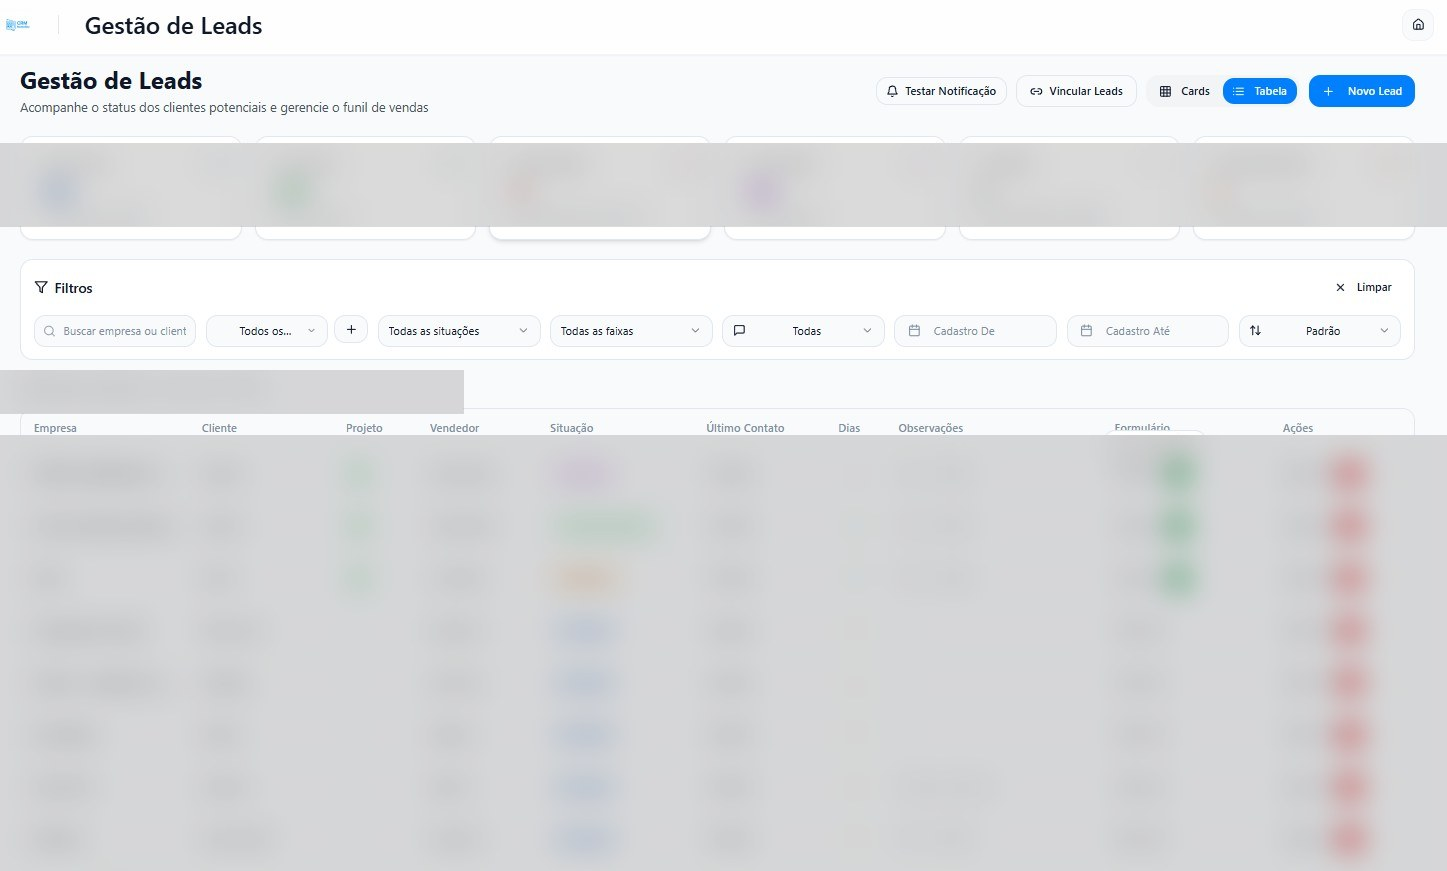
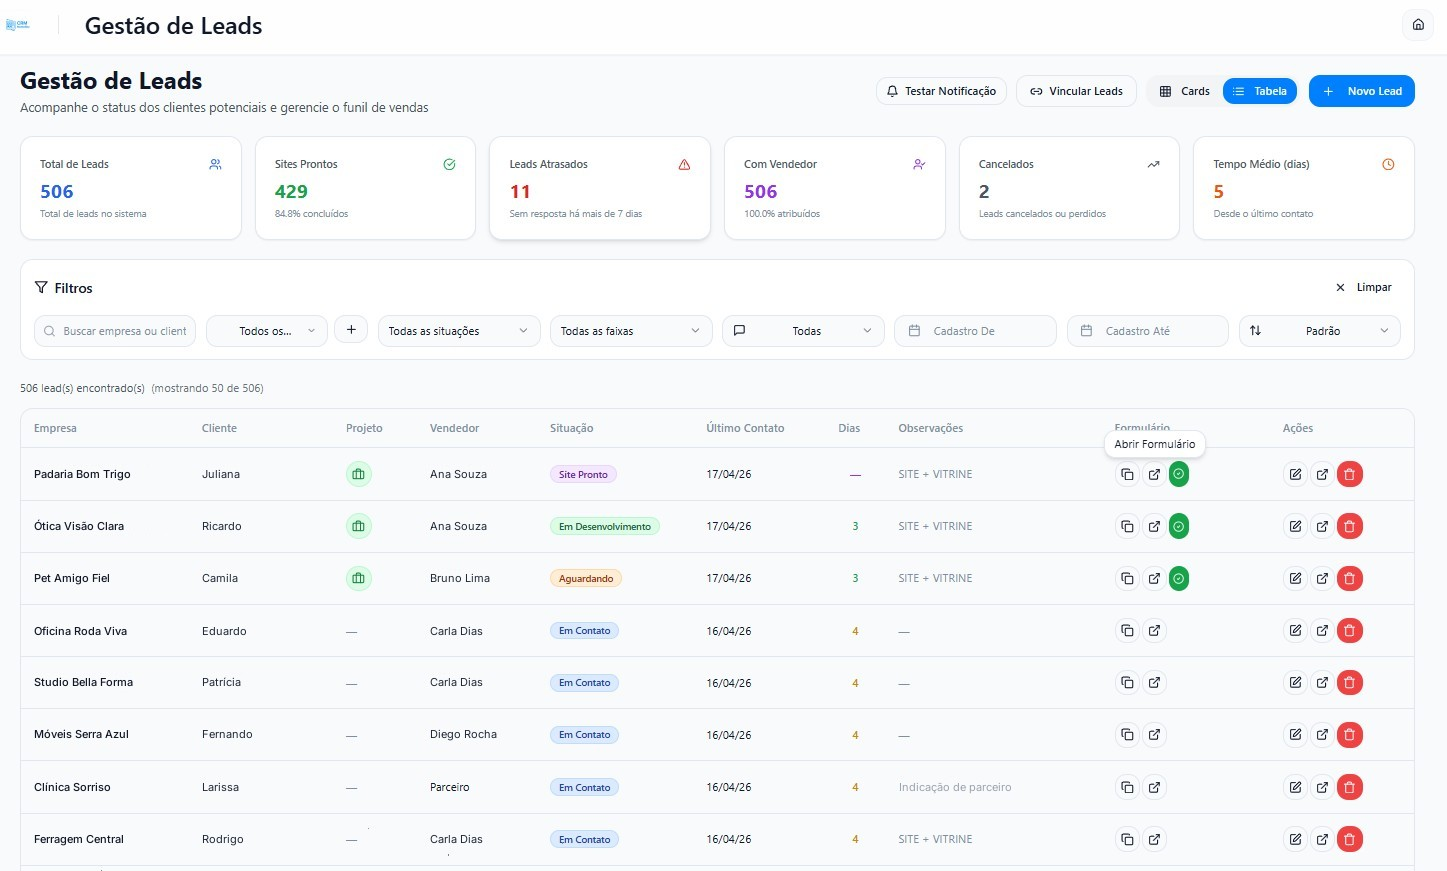
fix: prints do CRM e de layouts mais limpos, sem borrão
Tira a segunda imagem do CRM, devolve a primeira e as de layouts sem censura
e troca os nomes reais da tela de leads por nomes fictícios (scripts/nomes_ficticios.py).

diff --git a/scripts/nomes_ficticios.py b/scripts/nomes_ficticios.py
@@ -1,0 +1,72 @@
+"""
+Troca os nomes reais da tabela de leads do CRM (crm3.jpg) por nomes ficticios,
+escritos por cima com a mesma fonte do sistema (Inter). Os numeros do topo ficam.
+
+Uso:
+    python scripts/nomes_ficticios.py --origem PASTA_COM_OS_ORIGINAIS --fonte PASTA_COM_INTER
+
+--origem: pasta com o crm3.jpg original (fora do repositorio).
+--fonte: pasta com Inter-Regular.ttf e Inter-Medium.ttf (Google Fonts, licenca OFL).
+Le sempre o original, entao rodar de novo nao acumula edicoes.
+"""
+import argparse
+from pathlib import Path
+
+from PIL import Image, ImageDraw, ImageFont
+
+RAIZ = Path(__file__).resolve().parent.parent
+DESTINO = RAIZ / "public/projects/crmontesite/crm3.jpg"
+
+# Linha da tabela: topo das letras (px) e o texto ficticio de cada coluna.
+# Coluna: (x inicial, x final da area apagada, peso, cor)
+COLUNAS = {
+    "empresa": (34, 190, "medium", (17, 24, 39)),
+    "cliente": (202, 280, "regular", (31, 41, 55)),
+    "vendedor": (430, 505, "regular", (31, 41, 55)),
+    "obs": (899, 1010, "regular", (156, 163, 175)),
+}
+LINHAS = [
+    (470, {"empresa": "Padaria Bom Trigo", "cliente": "Juliana", "vendedor": "Ana Souza"}),
+    (522, {"empresa": "Ótica Visão Clara", "cliente": "Ricardo", "vendedor": "Ana Souza"}),
+    (574, {"empresa": "Pet Amigo Fiel", "cliente": "Camila", "vendedor": "Bruno Lima"}),
+    (627, {"empresa": "Oficina Roda Viva", "cliente": "Eduardo", "vendedor": "Carla Dias"}),
+    (678, {"empresa": "Studio Bella Forma", "cliente": "Patrícia", "vendedor": "Carla Dias"}),
+    (730, {"empresa": "Móveis Serra Azul", "cliente": "Fernando", "vendedor": "Diego Rocha"}),
+    (783, {"empresa": "Clínica Sorriso", "cliente": "Larissa", "obs": "Indicação de parceiro"}),
+    (835, {"empresa": "Ferragem Central", "cliente": "Rodrigo", "vendedor": "Carla Dias"}),
+]
+TAMANHO = 11  # px; altura das maiusculas no print = 8 px
+
+
+def cor_de_fundo(pixels, caixa):
+    """Mediana dos pixels claros da caixa: o fundo da linha, sem o texto."""
+    x0, y0, x1, y1 = caixa
+    claros = [pixels[x, y] for x in range(x0, x1) for y in range(y0, y1) if sum(pixels[x, y]) > 705]
+    return tuple(sorted(c[i] for c in claros)[len(claros) // 2] for i in range(3))
+
+
+def gerar(origem: Path, pasta_fonte: Path) -> None:
+    imagem = Image.open(origem / "crm3.jpg").convert("RGB")
+    desenho = ImageDraw.Draw(imagem)
+    fontes = {
+        "regular": ImageFont.truetype(str(pasta_fonte / "Inter-Regular.ttf"), TAMANHO),
+        "medium": ImageFont.truetype(str(pasta_fonte / "Inter-Medium.ttf"), TAMANHO),
+    }
+    pixels = imagem.load()
+    for topo, textos in LINHAS:
+        for coluna, texto in textos.items():
+            x0, x1, peso, cor = COLUNAS[coluna]
+            caixa = (x0 - 2, topo - 4, x1, topo + 12)
+            desenho.rectangle(caixa, fill=cor_de_fundo(pixels, caixa))
+            # anchor "ls": x na esquerda, y na linha de base (topo das maiusculas + 8 px)
+            desenho.text((x0, topo + 8), texto, font=fontes[peso], fill=cor, anchor="ls")
+    imagem.save(DESTINO, quality=90)
+
+
+if __name__ == "__main__":
+    parser = argparse.ArgumentParser(description="Nomes fictícios no print de leads do CRM")
+    parser.add_argument("--origem", type=Path, required=True)
+    parser.add_argument("--fonte", type=Path, required=True)
+    args = parser.parse_args()
+    gerar(args.origem, args.fonte)
+    print("gerado:", DESTINO.relative_to(RAIZ))

diff --git a/scripts/borrar_regioes.py b/scripts/borrar_regioes.py
@@ -17,22 +17,6 @@ from PIL import Image, ImageDraw, ImageFilter
 
 RAIZ = Path(__file__).resolve().parent.parent
 REGIOES = {
-    # Visao Geral: os seis numeros dos cartoes
-    "public/projects/crmontesite/crm1.jpg": [
-        (0.32, 0.71, 0.40, 0.80), (0.545, 0.71, 0.615, 0.80), (0.745, 0.71, 0.83, 0.80),
-        (0.32, 0.87, 0.40, 0.96), (0.545, 0.87, 0.615, 0.96), (0.745, 0.87, 0.83, 0.96),
-    ],
-    # Kanban: contagem de cada coluna e todo o conteudo dos cartoes (clientes, responsaveis, dominios)
-    "public/projects/crmontesite/crm2.jpg": [
-        (0.20, 0.165, 0.25, 0.205), (0.45, 0.165, 0.50, 0.205), (0.70, 0.165, 0.745, 0.205),
-        (0.94, 0.165, 0.99, 0.205), (0.0, 0.20, 1.0, 1.0),
-    ],
-    # Leads: numeros do topo, total encontrado e o corpo da tabela
-    "public/projects/crmontesite/crm3.jpg": [(0.0, 0.165, 1.0, 0.26), (0.0, 0.425, 0.32, 0.475), (0.0, 0.50, 1.0, 1.0)],
-    # Layouts: contadores do topo, total de registros e a coluna Projeto (nomes de clientes)
-    "public/projects/gestaolayoutssheets/layout1.jpg": [
-        (0.0, 0.23, 1.0, 0.35), (0.85, 0.37, 1.0, 0.42), (0.10, 0.47, 0.26, 1.0),
-    ],
     # Checkout: a linha do cartao salvo
     "public/projects/certificadopj/certificado2.jpg": [(0.58, 0.53, 0.95, 0.615)],
 }

diff --git a/README.md b/README.md
@@ -20,7 +20,7 @@ Portfólio pessoal com os projetos que eu construí, agrupados pelas três área
 | **Alt+Loot** | Dev | Jogo idle/clicker com cara de software corporativo (React, Supabase). |
 | **Certificado PJ** | Dev | Venda de certificados digitais com checkout e automações de CRM (WordPress, WooCommerce, Stripe, Make.com); descontinuado. |
 
-Os números que aparecem nas páginas são os que eu posso confirmar. Prints de sistemas com dados de clientes têm nomes e números ocultos, e os do JobSweeper usam dados de demonstração.
+Os números que aparecem nas páginas são os que eu posso confirmar. Na tela de leads do CRM, os nomes reais foram trocados por nomes fictícios, e os prints do JobSweeper usam dados de demonstração.
 
 ---
 
@@ -42,6 +42,8 @@ npm run preview # ver o build
 ```
 
 Para borrar dados reais em um print novo: guarde o original fora do repositório, acrescente as regiões em `scripts/borrar_regioes.py` e rode `python scripts/borrar_regioes.py --origem PASTA_DOS_ORIGINAIS`.
+
+Para trocar nomes reais por fictícios no print de leads do CRM, rode `python scripts/nomes_ficticios.py --origem PASTA_DOS_ORIGINAIS --fonte PASTA_COM_INTER` (Inter-Regular.ttf e Inter-Medium.ttf, do Google Fonts).
 
 ---
 

diff --git a/src/content/projects/crmontesite.md b/src/content/projects/crmontesite.md
@@ -7,7 +7,7 @@ color: "#3b82f6"
 technologies: ["React", "TypeScript", "TailwindCSS", "Supabase", "shadcn/ui"]
 link: null
 order: 2
-images: ["/projects/crmontesite/crm1.jpg", "/projects/crmontesite/crm2.jpg", "/projects/crmontesite/crm3.jpg"]
+images: ["/projects/crmontesite/crm1.jpg", "/projects/crmontesite/crm3.jpg"]
 metrics:
   - value: "900+"
     label: "Projetos cadastrados no CRM"
@@ -27,7 +27,7 @@ O **CRM Monte Site** é um sistema completo de gestão de relacionamento com cli
 
 A frente de venda de sites institucionais não existia na empresa: eu a criei do zero. Desenvolvi o CRM, produzia os sites, registrava os domínios e cuidava da hospedagem. Com o crescimento, estagiários entraram no projeto sob a minha responsabilidade e passei a coordenar esse time e a desenvolver outras ferramentas. Hoje o CRM tem **mais de 900 projetos cadastrados**.
 
-> As imagens desta página têm nomes e números ocultos para proteger os dados dos clientes.
+> Na tela de leads, os nomes de empresas, clientes e vendedores foram trocados por nomes fictícios para proteger os dados dos clientes.
 
 ### 🎯 Propósito
 

diff --git a/src/content/projects/gestaolayoutssheets.md b/src/content/projects/gestaolayoutssheets.md
@@ -7,7 +7,7 @@ color: "#22c55e"
 technologies: ["React", "TypeScript", "TailwindCSS", "Supabase", "shadcn/ui", "Vite", "Google Sheets API"]
 link: null
 order: 3
-images: ["/projects/gestaolayoutssheets/layout1.jpg"]
+images: ["/projects/gestaolayoutssheets/layout1.jpg", "/projects/gestaolayoutssheets/layout2.jpg"]
 areas: [dev, dados]
 ---
 
@@ -233,7 +233,6 @@ google_sheets_connections (1) ──→ (N) imports
 - Acompanha cada layout do recebimento à entrega, com situação e datas.
 - Mostra um painel de indicadores por período (semana, mês, ano) para o time de produção.
 
-> As imagens desta página têm nomes de projetos de clientes ocultos.
 
 ### Aprendizados Principais
 
